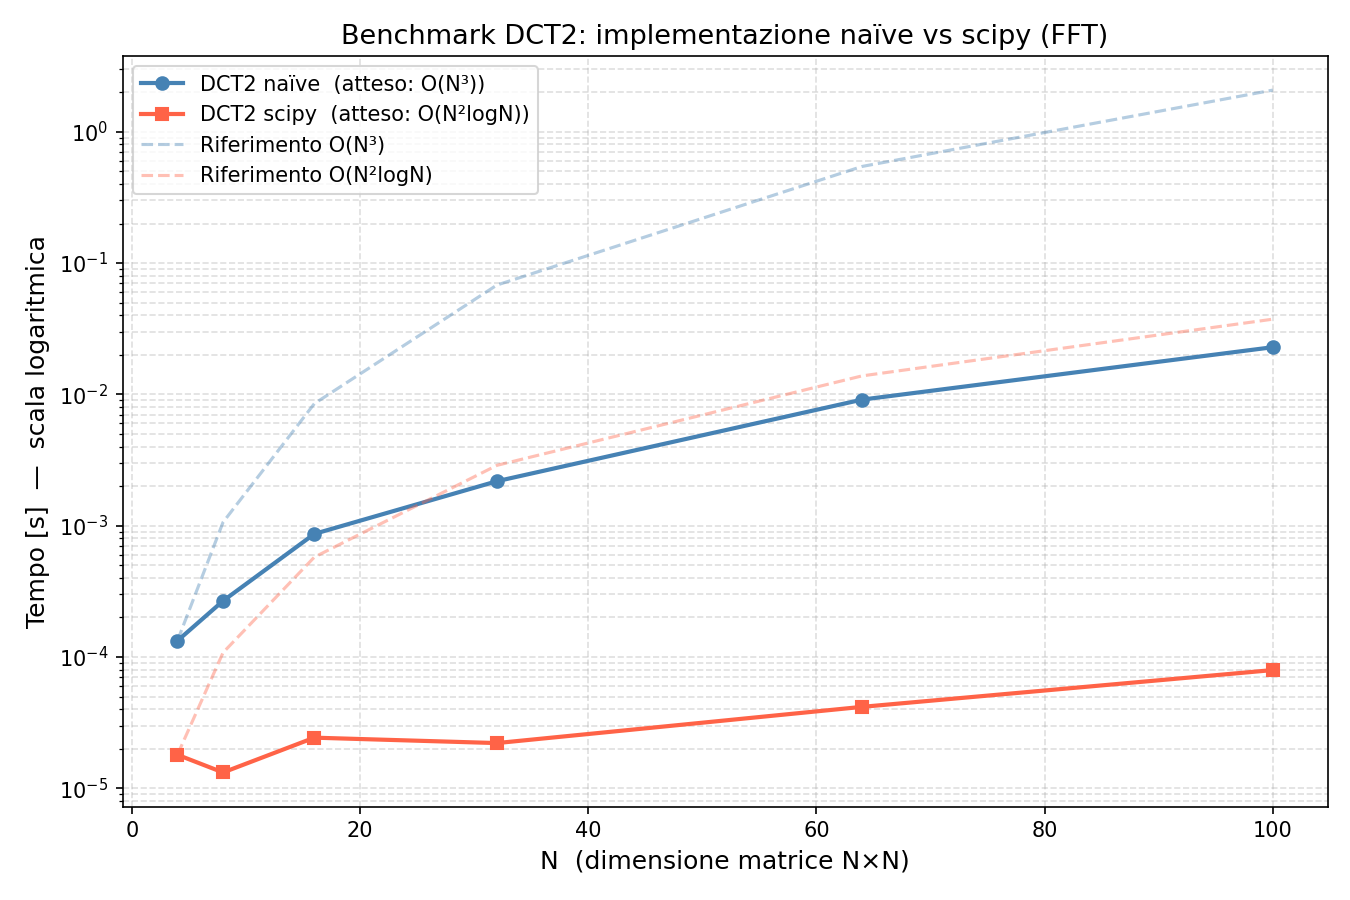
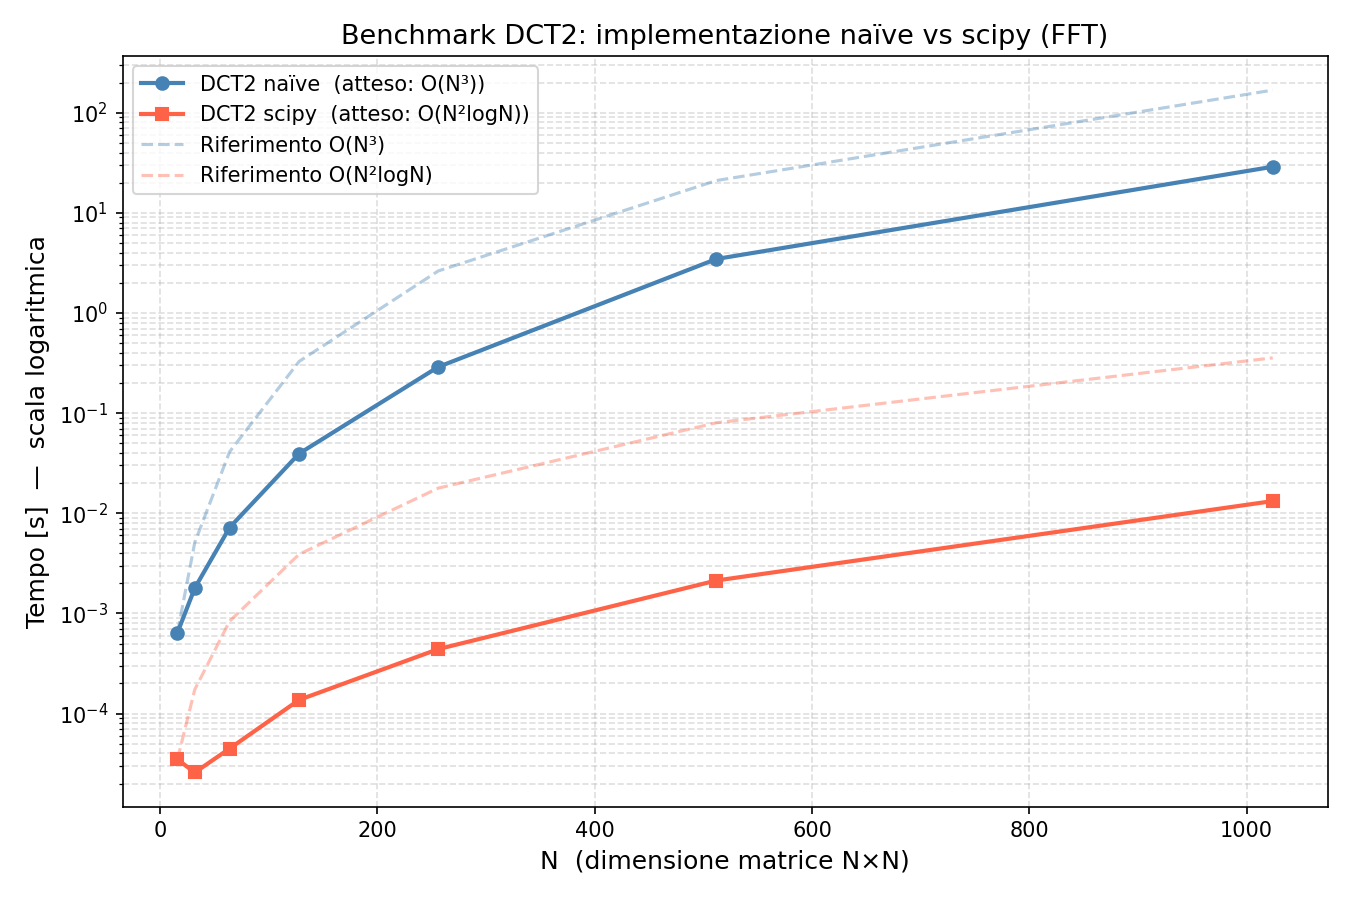
.

Changed region(s): [[0.0311, 0.0622, 0.9956, 0.9333], [0.0622, 0.1244, 0.0933, 0.1556], [0.0311, 0.8711, 0.0622, 0.9022]]

diff --git a/parte1/benchmark_dct.py b/parte1/benchmark_dct.py
@@ -225,6 +225,6 @@ def plot_benchmark(N_values, tempi_naive, tempi_libreria):
 if __name__ == "__main__":
     verifica_caso_test()
 
-    N_values = [4, 8, 16, 32, 64, 100]
+    N_values = [16, 32, 64, 128, 256, 512, 1024]
     tempi_naive, tempi_libreria = benchmark(N_values, ripetizioni=3)
     plot_benchmark(N_values, tempi_naive, tempi_libreria)
